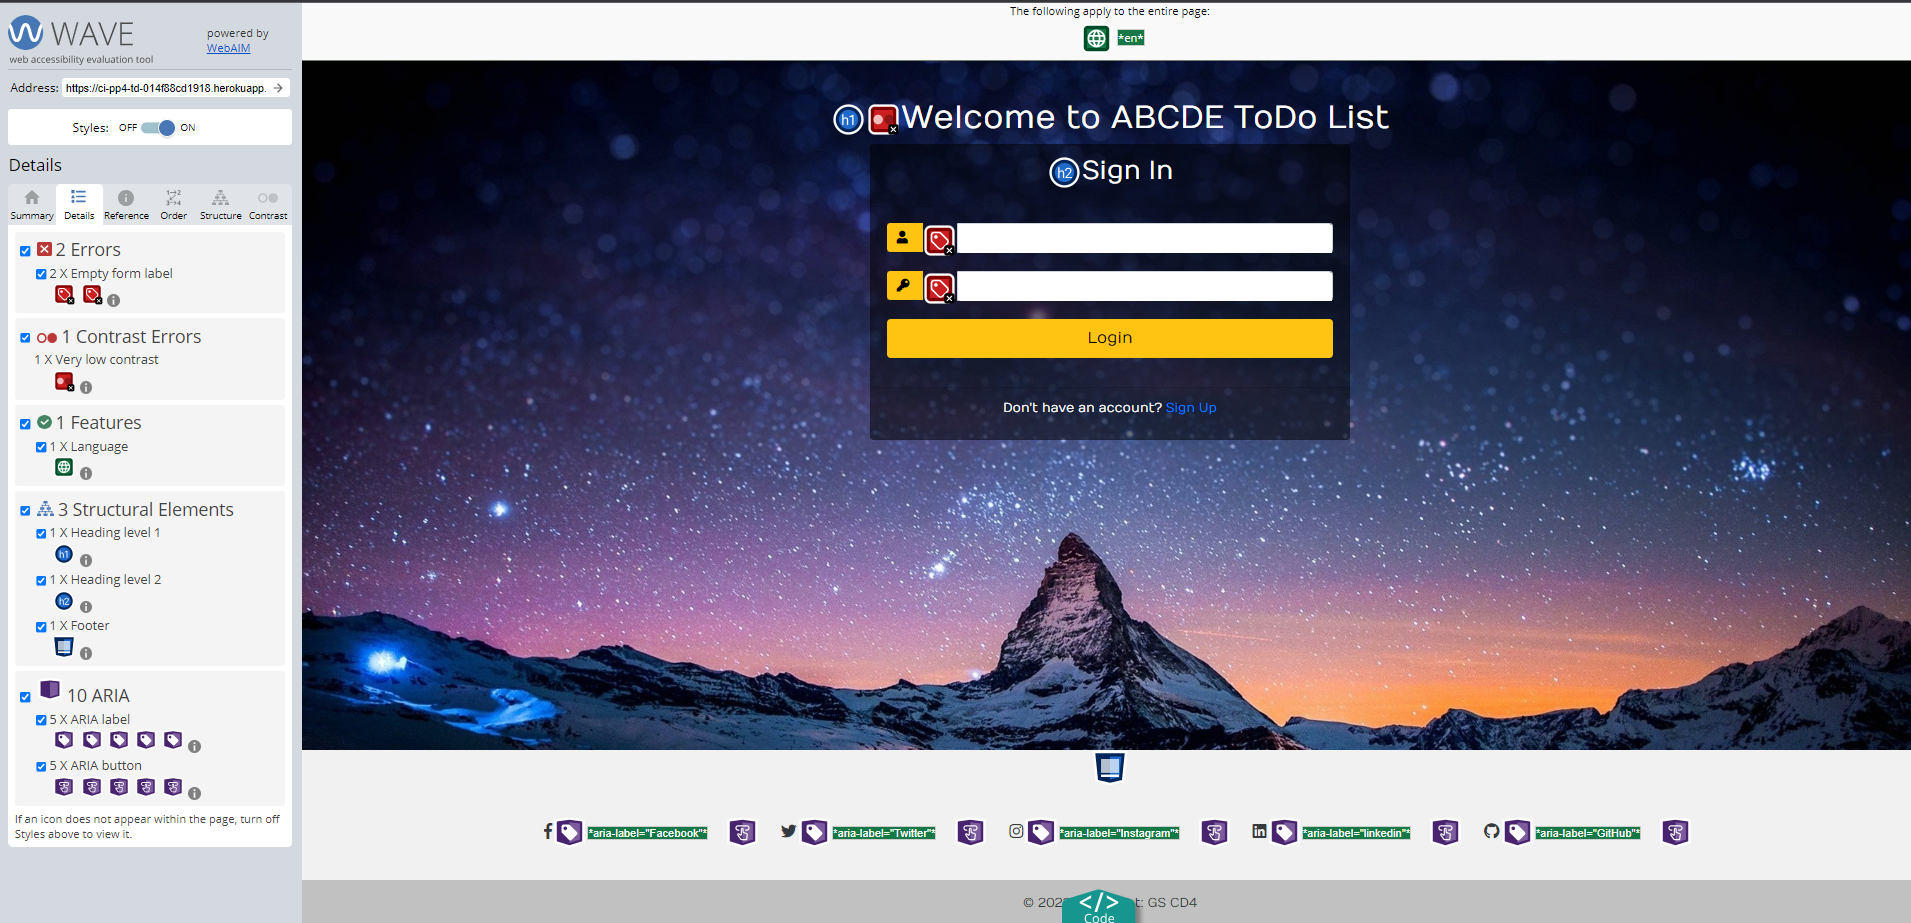
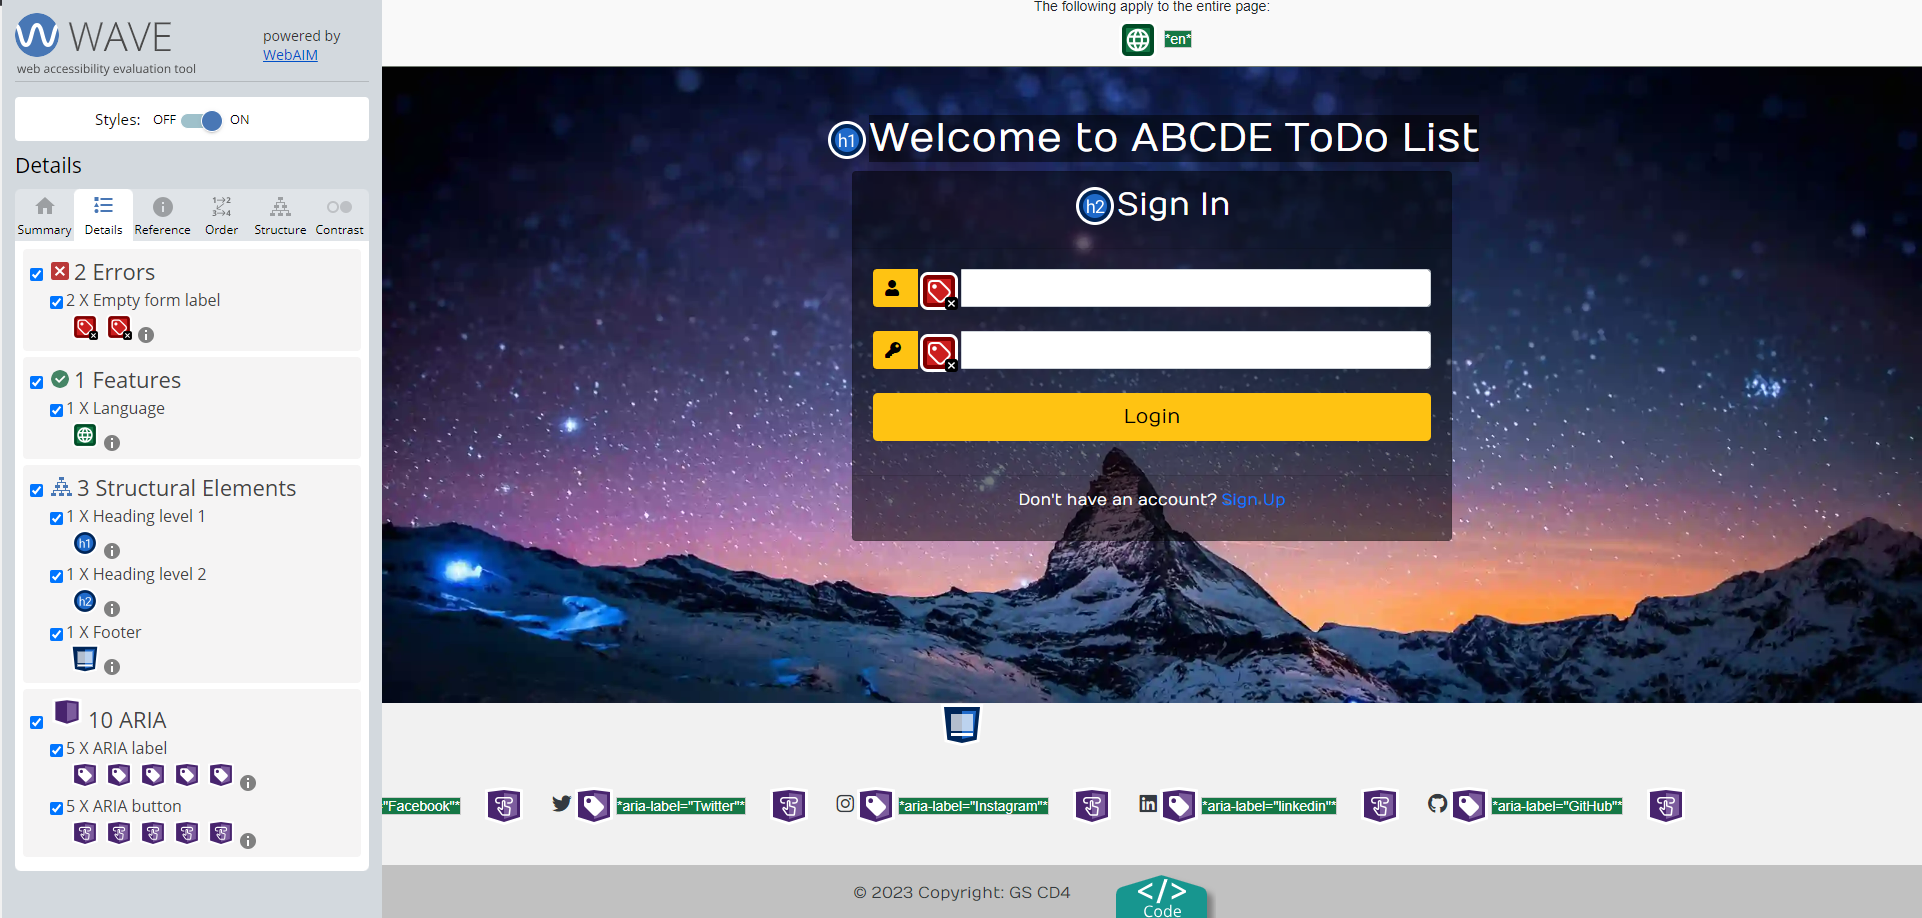
changed table colour

diff --git a/static/css/style.css b/static/css/style.css
@@ -249,7 +249,7 @@ border-radius: 0;
 }
 .panel .panel-heading .btn{
 color: #ffffff;
-background-color: #7040e0;
+background-color: #7ae9ac52;
 font-size: 14px;
 font-weight: 600;
 padding: 7px 15px;
@@ -279,7 +279,7 @@ border-radius: 0;
 }
 .panel .panel-body .table thead tr th{
 color: #ffffff;
-background: #7040e0;
+background: #7ae9ac52;
 font-size: 17px;
 font-weight: 700;
 padding: 12px;

diff --git a/templates/login-register/register.html b/templates/login-register/register.html
@@ -13,7 +13,7 @@
 	<div class="d-flex justify-content-center h-100">
 		<div class="card" style="height: 400px;">
 			<div class="card-header" style="height: 50px;" >
-				<h3 class="text-white text-center">Register</h3>
+				<h2 class="text-white text-center">Register</h2>
 			</div>
 			<div class="card-body">
 				<form method="POST">

diff --git a/todo_list/settings.py b/todo_list/settings.py
@@ -24,7 +24,7 @@ SECRET_KEY = "SECRET_KEY"
 
 # SECURITY WARNING: don't run with debug turned on in production!
 # Debug to false
-DEBUG = False
+DEBUG = True
 
 ALLOWED_HOSTS = ['*']
 

diff --git a/README.md b/README.md
@@ -879,25 +879,18 @@ Performance, best practices and SEO was tested using Lighthouse.
 WAVE was used to test the websites accessibility.
 
 <details><summary>Login</summary>
-We have 2 errors and 1 contrast error. All errors are false positive.
-
-Contast error says, that contrast is very low, but in reality the contast is very good.
-It is very easy to read "Welcome to ABCDE ToDoList
-
-Other two errors related to Form. Waive check says that labels are empty.
-The labels have picture instead of text, because of that the labels are not empty.
+We have two false positive errors.
+Waive check says that labels are empty, but in reality the 
+the labels have icons instead of text.
 <img src="docs/validation/accessibility/login-waive-1.png">
 <img src="docs/validation/accessibility/login-waive-2.png">
 </details>
 
 <details><summary>Register</summary>
-We have 3 errors and 1 contrast error. All errors are false positive.
+We have 3 false positive errors, like before.
+Waive check says that labels are empty, but in reality the 
+the labels have icons instead of text.
 
-Contast error says, that contrast is very low, but in reality the contast is very good.
-It is very easy to read "Welcome to ABCDE ToDoList
-
-Other three errors related to Form. Waive check says that labels are empty.
-The labels have picture instead of text, because of that the labels are not empty.
 <img src="docs/validation/accessibility/register-waive-1.png">
 <img src="docs/validation/accessibility/register-waive-2.png">
 </details>
